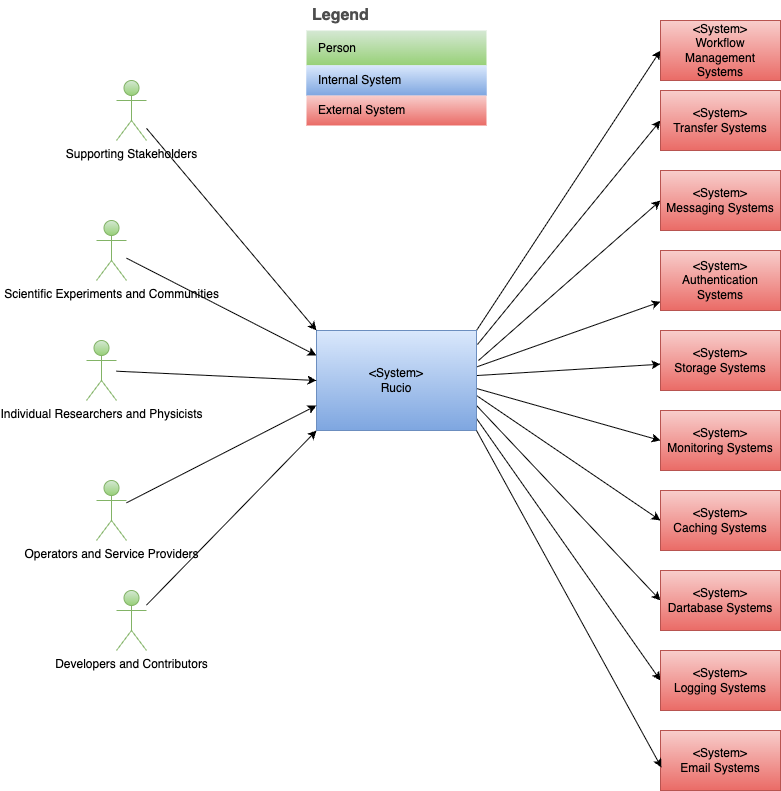
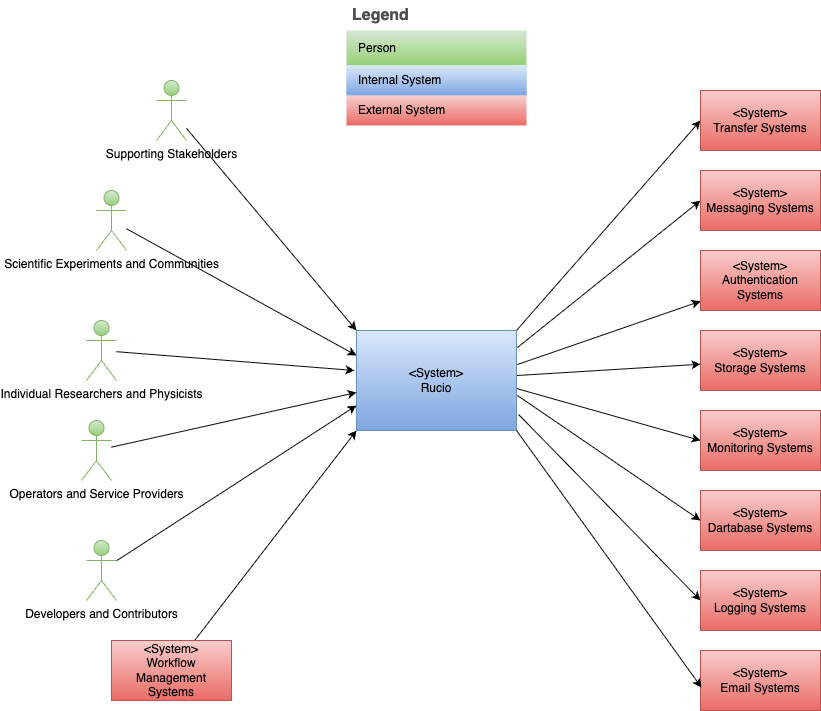
docs: update Context view section and diagram; striketrough external Caching system since not yet integrated

diff --git a/README.md b/README.md
@@ -40,7 +40,7 @@ See [What is Rucio?](https://rucio.github.io/documentation/started/what_is_rucio
 | Database Systems | External System | Transactional relational database management systems that serve as the persistence layer for catalog metadata, system state, and configuration data, including FAIR Data Points providing standardized metadata and data discovery services |
 | Transfer Systems | External System | Data movement services and protocols that handle the physical transfer of files between storage endpoints with reliability, scheduling, and error handling capabilities |
 | Messaging Systems | External System | Messaging services that enable asynchronous communication between distributed components, supporting event-driven architectures, decoupling, reliable message delivery, and catalogue change notifications to external applications |
-| Caching Systems | External System | High-speed data stores that temporarily hold frequently accessed data to reduce latency, decrease load on primary data sources, and improve overall system performance through intelligent data placement algorithms |
+| ~~Caching Systems~~ | ~~External System~~ | ~~High-speed data stores that temporarily hold frequently accessed data to reduce latency, decrease load on primary data sources, and improve overall system performance through intelligent data placement algorithms~~ |
 | Email Systems | External System | SMTP-based notification services that deliver system alerts, status updates, operational notifications, and administrative communications to users and operators for workflow management and incident response |
 
 ---
@@ -64,6 +64,12 @@ TODO(mgajek-cern): Add links if existing
 3. *Daemons* → *Database*: Query for pending rules/tasks
 4. *Daemons* → *Storage/Transfer systems*: Execute the actual data operations
 5. *Daemons* → *Database*: Update completion status
+
+**Integration Patterns:**
+- **Direct Daemon Communication**: Storage, Transfer, Monitoring, Messaging, Email Systems
+- **API/Client Integration**: ~~Workflow Management Systems,~~ Authentication Systems (primarily)
+- **File-based Collection**: Logging Systems
+- **Internal Only**: Database Systems (Rucio's internal DB), Caching Systems (no external integration)
 
 #### Lvl 2
 
